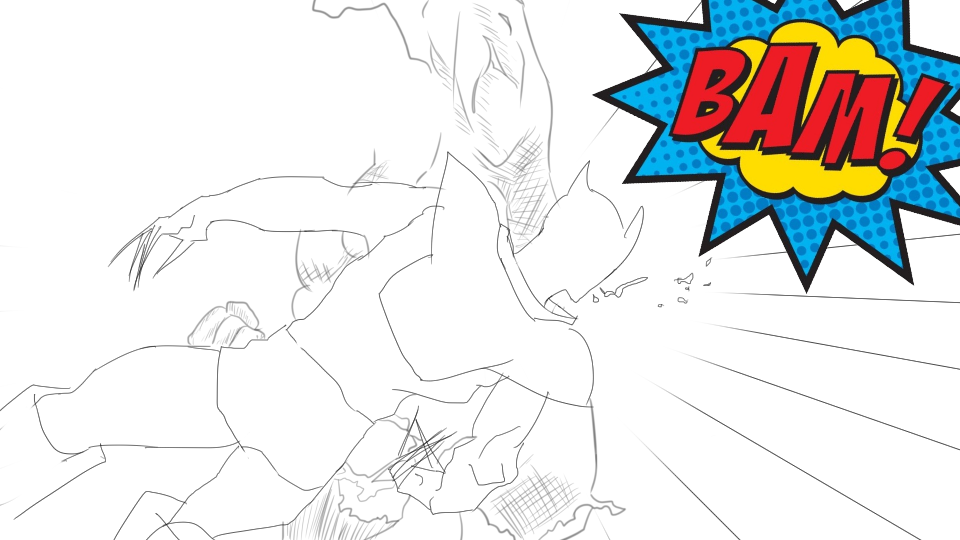
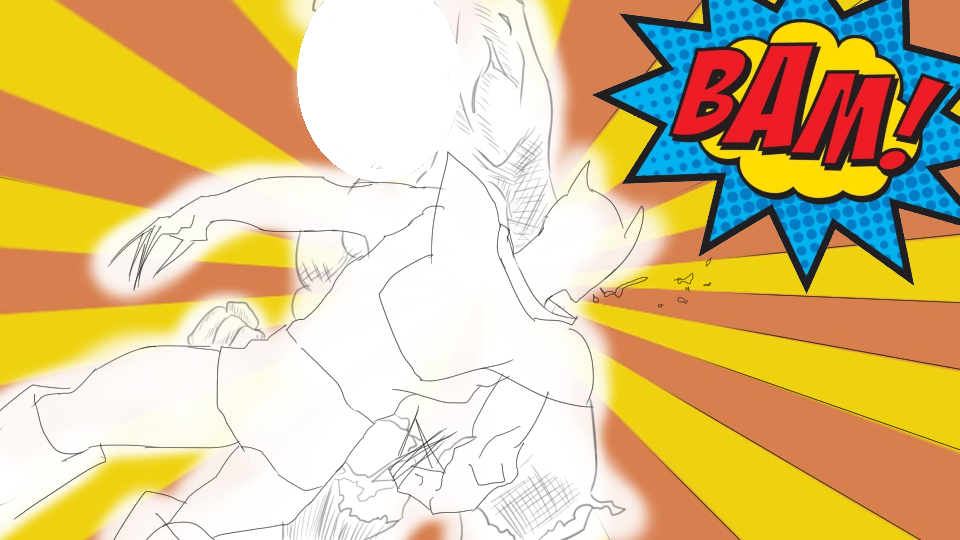
a

diff --git a/public/assets/css/comic.css b/public/assets/css/comic.css
@@ -19,10 +19,38 @@
 
 #narration{
   margin-top: 5px;
+  text-align: center;
 }
 
 #info{
   display: none;
+}
+
+#comic{
+  position: relative;
+}
+#comic > div{
+  position: relative;
+  width: 100%;
+  height: 100%;
+}
+
+
+
+#face{
+  position: absolute;
+  top: 0;
+  left:0;
+  z-index: 2;
+}
+
+#back{
+  position: absolute;
+  top: 0;
+  left:0;
+  z-index: 4;
+  width: 100%;
+  height: 100%;
 }
 
 @media screen and (orientation: portrait) {

diff --git a/public/assets/css/main.css b/public/assets/css/main.css
@@ -23,6 +23,7 @@ h1#title:befor{
   height: 100vh;
   position: relative;
   overflow: hidden;
+  z-index:0;
   background-color: rgb(255, 204, 102);
 }
 
@@ -42,6 +43,7 @@ h1#title:befor{
 	margin: auto;
 	width: 80vw;
 	height: 80vh;
+  z-index:1;
 	background: rgba(255, 255, 179, 0.6);
 }
 

diff --git a/app/Http/Controllers/UserController.php b/app/Http/Controllers/UserController.php
@@ -99,7 +99,7 @@ class UserController extends Controller
 			$serch_result = DB::table('background_data')->where('id', $serch_result->background_id)->first();
 
 			$replaceText = str_replace("^", session('user_name'), $serch_result->template_text);
-			return view('comic')->with('back',$back)->with('next',$next)->with('path',$serch_result->background_data)->with('txt',$replaceText)->with('face_data',session('face_data'));
+			return view('comic')->with('back',$back)->with('next',$next)->with('path',$serch_result->background_data)->with('txt',$replaceText)->with('face_data',session('face_data'))->with('left',$serch_result->face_x_position)->with('top',$serch_result->face_y_position);
 		}
 
 		return view('question');
@@ -142,7 +142,7 @@ class UserController extends Controller
 			$serch_result = DB::table('panel')->where('id', $serch_result->$page)->first();
 			$serch_result = DB::table('background_data')->where('id', $serch_result->background_id)->first();
     	$replaceText = str_replace("^", session('user_name'), $serch_result->template_text);
-    	return view('comic')->with('back',$back)->with('next',$next)->with('path',$serch_result->background_data)->with('txt',$replaceText)->with('face_data',session('face_data'));
+    	return view('comic')->with('back',$back)->with('next',$next)->with('path',$serch_result->background_data)->with('txt',$replaceText)->with('face_data',session('face_data'))->with('left',$serch_result->face_x_position)->with('top',$serch_result->face_y_position);
     }
 
     public function next(){
@@ -156,7 +156,7 @@ class UserController extends Controller
 			$serch_result = DB::table('panel')->where('id', $serch_result->$page)->first();
 			$serch_result = DB::table('background_data')->where('id', $serch_result->background_id)->first();
     	$replaceText = str_replace("^", session('user_name'), $serch_result->template_text);
-    	return view('comic')->with('back',$back)->with('next',$next)->with('path',$serch_result->background_data)->with('txt',$replaceText)->with('face_data',session('face_data'));
+    	return view('comic')->with('back',$back)->with('next',$next)->with('path',$serch_result->background_data)->with('txt',$replaceText)->with('face_data',session('face_data'))->with('left',$serch_result->face_x_position)->with('top',$serch_result->face_y_position);
     }
 
 		public function face_upload(Request $request){
@@ -165,11 +165,11 @@ class UserController extends Controller
 		  // ファイル名を生成し画像をアップロード
 		  $name = md5(sha1(uniqid(mt_rand(), true))).'.'.$image->getClientOriginalExtension();
 			$img = Image::make( $image );
-		  $upload = $img->resize(320,240)->save('media/' . $name);
+		  $upload = $img->resize(168,300)->save('media/' . $name);
 			$id = DB::table('face_photo')->insertGetId(
-    		array('face_data' => './assets/media/' . $name, 'user_name' => null)
+    		array('face_data' => 'media/' . $name, 'user_name' => null)
 			);
-			session(['face_data' => './assets/media/' . $name]);
+			session(['face_data' => 'media/' . $name]);
 		  // アップロード成功のメッセージを定義
 		  $data = array(
 		    'success' => '画像がアップロードされました',

diff --git a/resources/views/comic.blade.php b/resources/views/comic.blade.php
@@ -2,33 +2,41 @@
 
 @section('stylesheet')
     <link href="{{{asset('/assets/css/comic.css')}}}" rel="stylesheet">
+    <script type="text/javascript">
+      $(function(){
+        $("#face").css("top",{{{$top}}});
+        $("#face").css("left",{{{$left}}} );
+      });
+    </script>
 @endsection
 
 @section('content')
   <h1 id="info">スマホを横向きにしてね</h1>
     <div id="comic">
-      <img id="back" src="./{{$path}}" alt="">
-      <img id="face" src="{{$face_data}}" alt="">
+      <div >
+        <img id="face" src="{{{asset($face_data)}}}" alt="" >
+        <img id="back" src="{{asset($path)}}" alt="" >
+      </div>
     </div>
 
     <div class="">
       @if ($back != 0)
       <div class="preview">
          <form action="/preview" method="post">
-            <input class="glyphicon glyphicon-chevron-left" type="submit" value="前のコマ">
+            <input class="preview btn btn-default" type="submit" value="前のコマ">
             <input type="hidden" name="page" value="{{ $back }}">
         </form>
       </div>
       @endif
       @if ($next != 5)
         <form action="/next" method="post">
-            <input class="glyphicon glyphicon-chevron-right" type="submit" value="次のコマ">
+            <input class="next btn btn-default" type="submit" value="次のコマ">
             <input type="hidden" name="page" value="{{ $next }}">
         </form>
         @endif
         @if ($next == 5)
         <form action="/" method="get">
-            <input type="submit" value="トップへ">
+            <input class="next btn btn-default" type="submit" value="トップへ">
         </form>
         @endif
     </div>

diff --git a/config/database.php b/config/database.php
@@ -61,7 +61,7 @@ return [
             'password' => env('DB_PASSWORD', ''),
             'charset' => 'utf8',
             'collation' => 'utf8_unicode_ci',
-            //'unix_socket'   => '/Applications/MAMP/tmp/mysql/mysql.sock',
+            'unix_socket'   => '/Applications/MAMP/tmp/mysql/mysql.sock',
             'prefix' => '',
             'strict' => false,
             'engine' => null,
